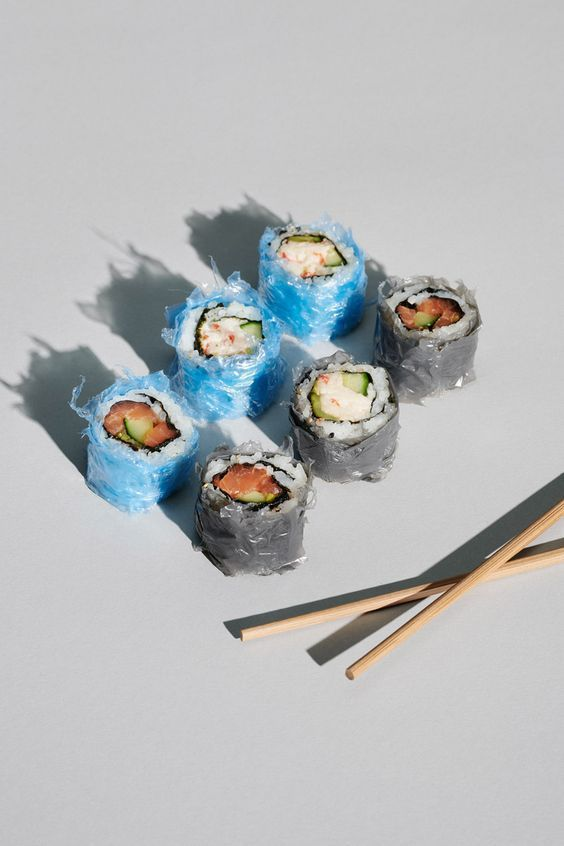
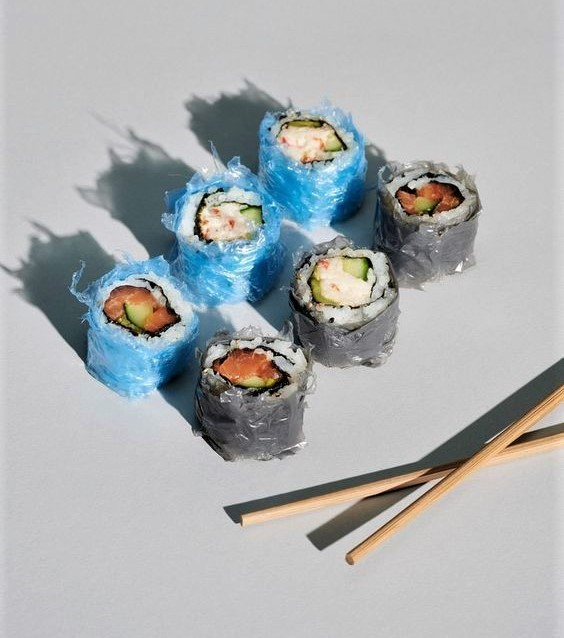
sayı 9 ufak tefek

Changed region(s): [[0.0, 0.1191, 1.0, 0.8934]]

diff --git a/content/dergi/sayi-9/mikroplastikler/index.html b/content/dergi/sayi-9/mikroplastikler/index.html
@@ -70,22 +70,23 @@ tags= ["ana sayfa", "dergi"]
       >}}</div>
     </div>
 
-<div class="text-center">
-      {{<img
-         src="mikroplastik02.jpg"
-         referrerpolicy="no-referrer"
-         alt="mikroplastik02.jpg"
-      >}}
+    <div class="row">
+       <div class="col md-6">
+         {{<img
+            src="mikroplastik-atiklar.jpg"
+            referrerpolicy="no-referrer"
+            alt="Mikroplastik Atıklar"
+         >}}
+       </div>
     </div>
+
 
    <h3 id="gıdalarda-mikroplastik">Gıdalarda Mikroplastik</h3>
        <div class="row">
         <div class="col-md-6"> <p>
       Yapılan çalışmalara göre sahil kumunda, deniz ürünlerinde, sofra tuzunda,
       karton bardaklarda, biberonda ve son olarak
-      <a href="https://www.bbc.com/turkce/haberler-dunya-55412052"
-         >plasentada</a
-      >
+      <a href="https://www.bbc.com/turkce/haberler-dunya-55412052" target="_blank" rel="noopener noreferrer">plasentada</a>
       dahi bulunan, boyutları milimetrenin binde birine kadar küçülebilen
       mikroplastiklerin ambalajlı gıdalarda da bulunduğu bildirildi. Gıdalardaki
       mikroplastik varlığının genellikle hammadde, üretim aşamaları veya
@@ -99,7 +100,9 @@ tags= ["ana sayfa", "dergi"]
       imkansız ve bunlar da bizim vücudumuza karışıyor” şeklinde açıklar. Hal
       böyle iken mikroplastiklerden kaçınmak oldukça zorlaşıyor.
       Mikroplastiklerden kaçınmak için alabileceğimiz bazı önlemlere bakalım.
-   </p> {{<img src="konserve.jpg" referrerpolicy="no-referrer" alt="konserve.jpg" >}}
+   </p> <br><br><br>
+   
+   {{<img src="konserve.jpg" referrerpolicy="no-referrer" alt="konserve.jpg" >}}
    </div>
         <div class="col-md-6"> {{<img
          src="mikroplastik-sise.jpg"
@@ -108,13 +111,8 @@ tags= ["ana sayfa", "dergi"]
       >}}</div>
     </div>
 
-    
    <p class="text-center">
-      {{<img
-         src="mikroplastik-dongusu-balik.jpg"
-         referrerpolicy="no-referrer"
-         alt="Untitled%201.jpg"
-      >}}
+      <img src="https://www.markut.net/sayi-9/plastik-cagi-mikroplastikler/mikroplastik-dongusu-balik.svg" alt="">
    </p>
 
    <p class="text-center">
@@ -192,7 +190,7 @@ tags= ["ana sayfa", "dergi"]
     </div>
 
 
-        <div class="row">
+        <div class="row  mt-md-5">
         <div class="col-md-4">   <p>
       Harap olan ekosistemlerin yenilenmesi için uzun bir sürece ve çabaya
       ihtiyaç var. O yüzden yaşadığımız ekosistemi ve çevreyi korumak adına

diff --git a/themes/Markut/layouts/partials/header-sayi.html b/themes/Markut/layouts/partials/header-sayi.html
@@ -29,17 +29,17 @@
                </a>
                <div class="dropdown-menu">
                 {{ range first 20 ( where ( where (.Site.Pages.ByParam "sayfa") ".Params.sayi" "intersect" .Params.sayi ) "Permalink" "!=" .Permalink ) }}
-             <div class="mrkt-menu"><a href="{{ .RelPermalink }}">{{.Params.sayfa}} | {{ .Title | markdownify }}</a></div>                  
+             <div class="mrkt-menu"><a href="{{.Site.BaseURL}}{{.Params.url}}">{{.Params.sayfa}} | {{ .Title | markdownify }}</a></div>                  
                {{ end }}
                </div>
              </li>
         </ul>
           <ul class="navbar-nav">
             <li class="nav-item">
-              <a class="nav-link" href="/iletisim/">İletişim</a>
+              <a class="nav-link" href="{{.Site.BaseURL}}iletisim/">İletişim</a>
             </li>
             <li class="nav-item">
-              <a class="nav-link" href="/hakkimizda/">Hakkımızda</a>
+              <a class="nav-link" href="{{.Site.BaseURL}}hakkimizda/">Hakkımızda</a>
             </li>
             <li class="nav-item">
               <a class="nav-link" href="#" data-toggle="modal" data-target="#aboneol">Abone Ol</a>

diff --git a/themes/Markut/layouts/partials/header.html b/themes/Markut/layouts/partials/header.html
@@ -13,15 +13,15 @@
         <div class="collapse navbar-collapse justify-content-between" id="navbarToggle">
           <ul class="navbar-nav">
             <li class="nav-item">
-              <a class="nav-link" href="/bize-gonder/">Bize Gönder</a>
+              <a class="nav-link" href="{{.Site.BaseURL}}bize-gonder/">Bize Gönder</a>
             </li>
                 <li class="nav-item">
-                  <a class="nav-link" href="/hakkimizda/">Hakkımızda</a>
+                  <a class="nav-link" href="{{.Site.BaseURL}}hakkimizda/">Hakkımızda</a>
                 </li>
           </ul>
           <ul class="navbar-nav">
             <li class="nav-item">
-              <a class="nav-link" href="/iletisim/">İletişim</a>
+              <a class="nav-link" href="{{.Site.BaseURL}}iletisim/">İletişim</a>
             </li>
             <li class="nav-item">
               <a class="nav-link" href="#" data-toggle="modal" data-target="#aboneol">Abone Ol</a>

diff --git a/themes/Markut/static/css/styles.css b/themes/Markut/static/css/styles.css
@@ -110,7 +110,6 @@ letter-spacing: 1px;
 pre code{color: #c30000;}
 .container img{
   margin-top: 10px;
-  margin-bottom: 10px;
 }
 html,
 body {
@@ -167,6 +166,12 @@ blockquote p {
 a {
   color: #333333;
   font-family: 'Roboto Condensed', sans-serif;
+}
+.container p a{
+  text-decoration: underline;
+  text-decoration-thickness: 3px;
+  text-decoration-color: #f7c421;
+  -moz-text-decoration-color: #f7c421;
 }
 a:hover {
   color: #000000;

diff --git a/content/dergi/sayi-9/pop-art/index.html b/content/dergi/sayi-9/pop-art/index.html
@@ -451,7 +451,7 @@ tags= ["ana sayfa", "dergi"]
             <p>
                &quot;Sanatın propaganda olduğunu sanmıyorum. Ruhu özgürleştiren,
                hayal gücünü kışkırtan ve insanları daha ileri gitmeye teşvik
-               eden bir şey olmalı. Sanat, insanlığı manipüle etmek yerine kutluyor.
+               eden bir şey olmalı.
                &quot;
             </p>
          </blockquote>
